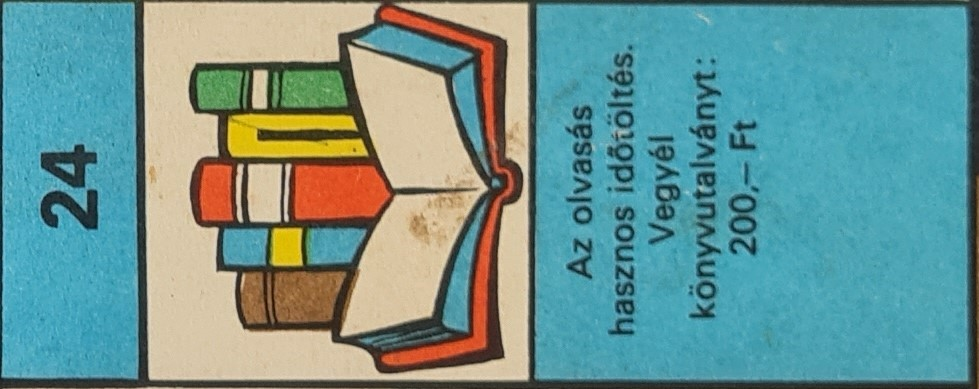
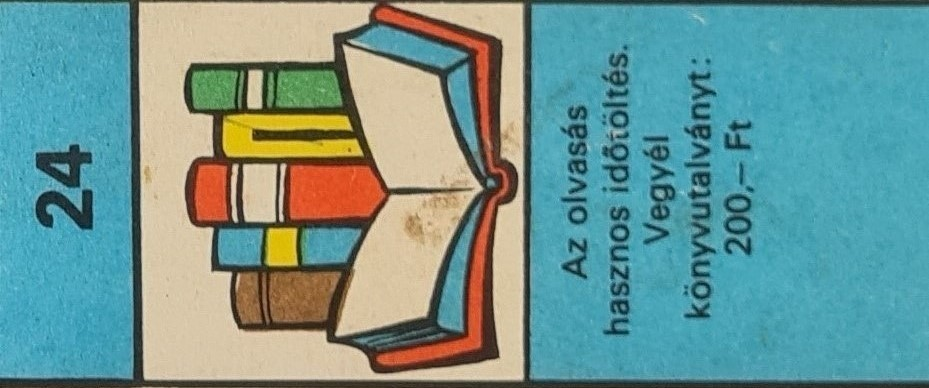
03.10.

diff --git a/próba/Gazdálkodj okosan.css b/próba/Gazdálkodj okosan.css
@@ -50,7 +50,7 @@ background-position: 0% 20%;
     background-image: url(Kepek/23.jpg);
     background-size: cover;}
 
-.M24 { grid-area: m24;background-image: url(Kepek/24.jpg);}
+.M24 { grid-area: m24;background-image: url(Kepek/24.jpg);background-position: 30%;}
 
 .M25 { grid-area: m25;
     background-image: url(Kepek/25.jpg);
